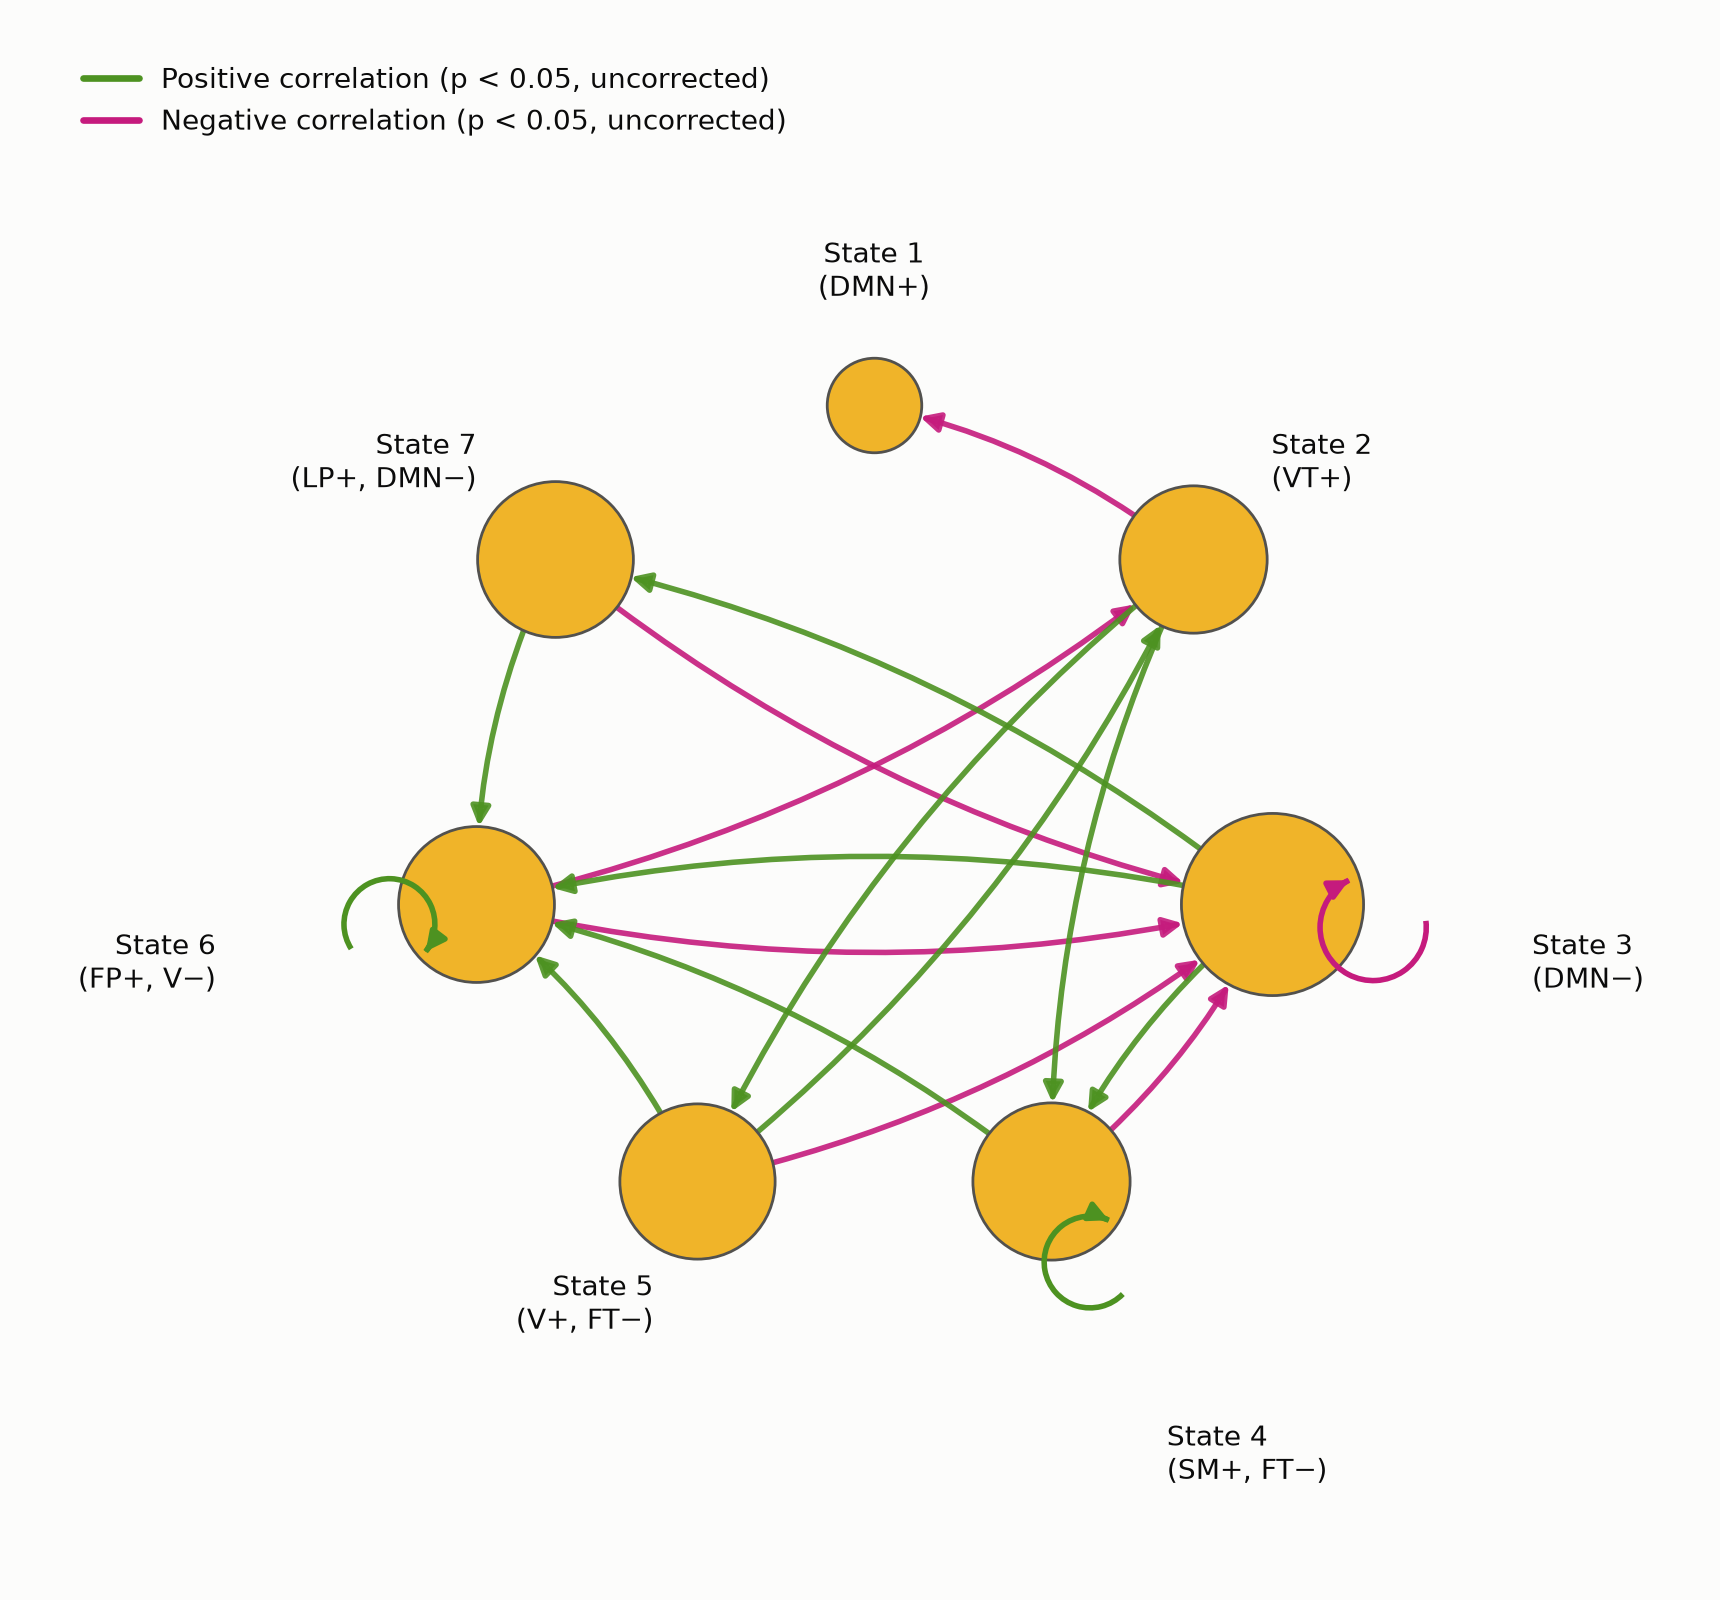
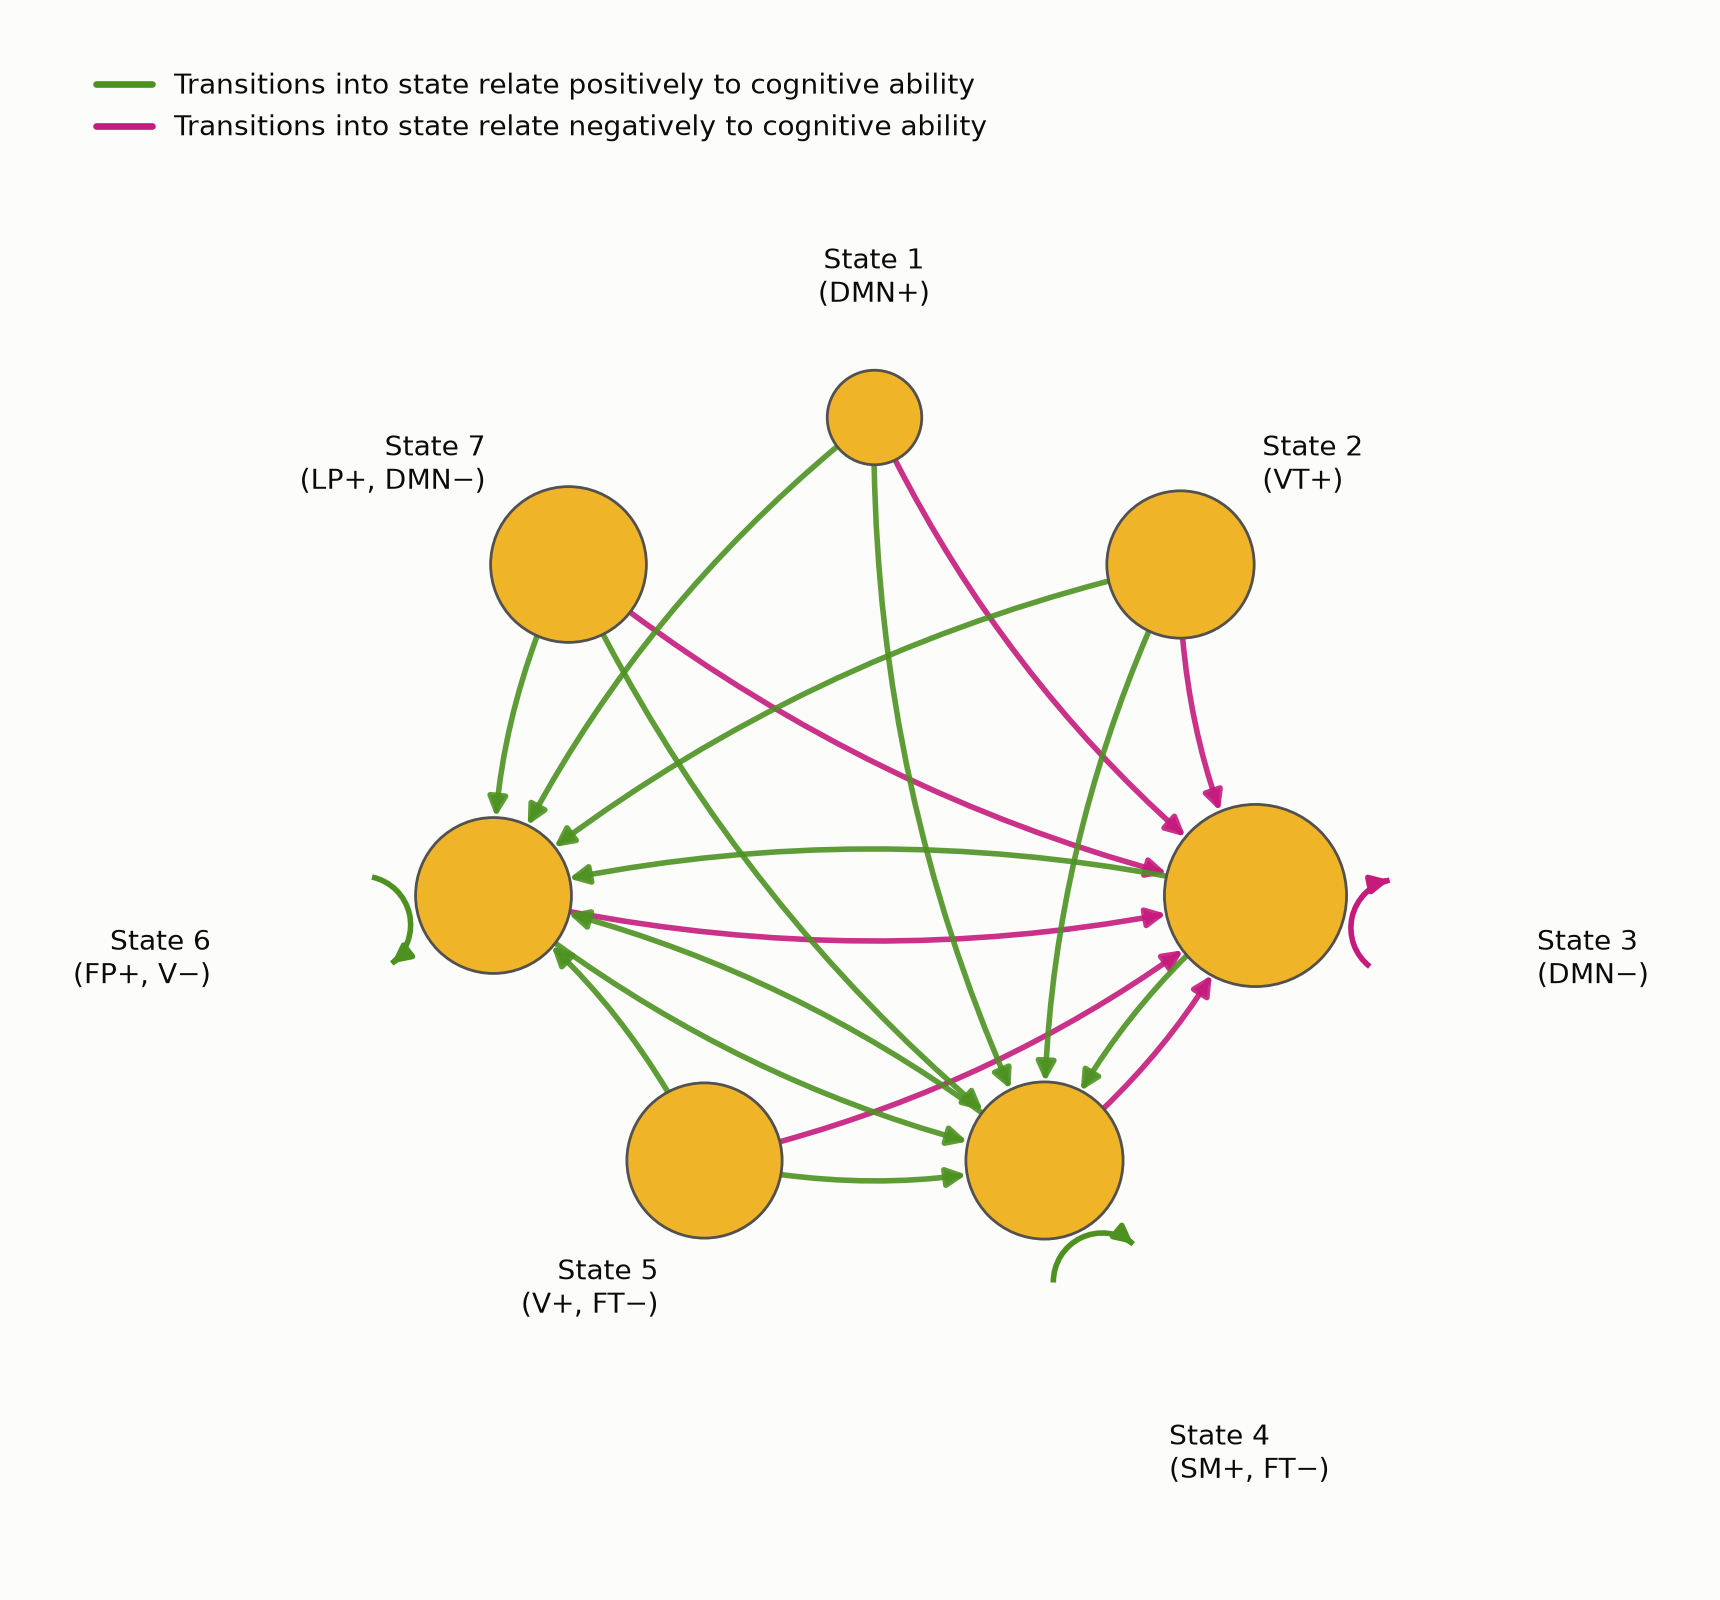
Restrict the transition digraph to edges that survive correction
No individual transition cell survives BH-FDR across the 49 (smallest
adjusted p = 0.063), so an edge-wise corrected figure would be blank - the
same conclusion the 2023 paper reached. Folding those 49 tests into the main
family is not an option either: it wipes out all 31 existing findings,
states 3, 4 and 6 included.

What does survive is the transitions-into-state test, which is itself an
edge-level claim about a whole column of the matrix. The digraph now draws
arrows converging on states 3, 4 and 6, coloured by the sign of that state's
corrected effect, with self-loops. The caption states that the arrows depict
one tested quantity per target state rather than seven separate tests.

Self-loop geometry moved to data units. Deriving it from the marker size in
points underestimated the node radius, because tight_layout resizes the axes
after the function returns, so the arcs were drawn across their own nodes.

diff --git a/analysis/viz/figures.py b/analysis/viz/figures.py
@@ -315,6 +315,7 @@ def significant_transition_network(
     node_sizes: dict[int, float],
     alpha: float = 0.05,
     state_labels: dict[int, str] | None = None,
+    legend_labels: tuple[str, str] | None = None,
     layout: str = "circular",
     seed: int = 7,
     ax=None,
@@ -376,39 +377,40 @@ def significant_transition_network(
             )
 
     # Self-loops need explicit geometry: an arrow from a point to itself has
-    # zero length and renders nothing. Each loop is an arc sitting just
-    # outside its node, on the far side from the centre so it never covers a
-    # label or another edge. Node radii are read back through the data
-    # transform so the loops stay attached at any figure size.
-    ax.set_xlim(-1.85, 1.85)
-    ax.set_ylim(-1.75, 1.75)
-    points_per_data_unit = abs(
-        ax.transData.transform((1.0, 0.0))[0] - ax.transData.transform((0.0, 0.0))[0]
-    )
+    # zero length and renders nothing.
+    #
+    # Their size is set in DATA units, not derived from the marker size in
+    # points. The points-per-data ratio is not knowable here - `tight_layout`
+    # resizes the axes after this function returns - so a radius computed from
+    # the transform comes out too small and the arc gets drawn across its own
+    # node. The layout is always a unit circle at a fixed aspect, so
+    # data-space constants are stable across figure sizes.
+    ax.set_xlim(-1.9, 1.9)
+    ax.set_ylim(-1.8, 1.8)
+    node_radius_data = {s: 0.155 + 0.105 * (node_sizes[s] / size_max) for s in states}
     for state, is_positive in self_loops:
         x, y = pos[state]
         dx, dy = np.cos(angles[state]), np.sin(angles[state])
-        node_radius = (np.sqrt(node_size[state] / np.pi)) / max(points_per_data_unit, 1e-9)
-        loop_radius = 0.95 * node_radius
-        centre = (x + (node_radius + loop_radius * 0.9) * dx,
-                  y + (node_radius + loop_radius * 0.9) * dy)
+        loop_radius = 0.125
+        centre = (x + (node_radius_data[state] + loop_radius * 0.95) * dx,
+                  y + (node_radius_data[state] + loop_radius * 0.95) * dy)
         base_angle = np.degrees(np.arctan2(dy, dx))
         colour = PIYG_POSITIVE if is_positive else PIYG_NEGATIVE
         # drawn above the nodes: a loop tucked behind its own node reads as a
         # stray stub rather than a self-transition
         ax.add_patch(mpl.patches.Arc(
             centre, 2 * loop_radius, 2 * loop_radius,
-            theta1=base_angle + 130, theta2=base_angle + 20,
+            theta1=base_angle + 115, theta2=base_angle - 115,
             lw=2.0, color=colour, zorder=4,
         ))
-        head_angle = np.radians(base_angle + 130)
+        head_angle = np.radians(base_angle + 115)
         tip = (centre[0] + loop_radius * np.cos(head_angle),
                centre[1] + loop_radius * np.sin(head_angle))
         tangent = head_angle - np.pi / 2
         ax.annotate(
             "", xy=tip,
-            xytext=(tip[0] - 0.02 * np.cos(tangent), tip[1] - 0.02 * np.sin(tangent)),
-            arrowprops=dict(arrowstyle="-|>", mutation_scale=14, lw=2.0, color=colour),
+            xytext=(tip[0] - 0.022 * np.cos(tangent), tip[1] - 0.022 * np.sin(tangent)),
+            arrowprops=dict(arrowstyle="-|>", mutation_scale=13, lw=2.0, color=colour),
             zorder=4,
         )
 
@@ -424,7 +426,7 @@ def significant_transition_network(
     for state in states:
         x, y = pos[state]
         dx, dy = np.cos(angles[state]), np.sin(angles[state])
-        offset = 96 if state in looped else 36
+        offset = 104 if state in looped else 38
         ax.annotate(
             labels[state], (x, y), xytext=(offset * dx, offset * dy), textcoords="offset points",
             ha="center" if abs(dx) < 0.4 else ("left" if dx > 0 else "right"),
@@ -432,12 +434,14 @@ def significant_transition_network(
             fontsize=10, color=TEXT_PRIMARY,
         )
 
+    positive_label, negative_label = legend_labels or (
+        f"Positive correlation (p < {alpha:g}, uncorrected)",
+        f"Negative correlation (p < {alpha:g}, uncorrected)",
+    )
     ax.legend(
         handles=[
-            mpl.lines.Line2D([], [], color=PIYG_POSITIVE, lw=2.4,
-                             label=f"Positive correlation (p < {alpha:g}, uncorrected)"),
-            mpl.lines.Line2D([], [], color=PIYG_NEGATIVE, lw=2.4,
-                             label=f"Negative correlation (p < {alpha:g}, uncorrected)"),
+            mpl.lines.Line2D([], [], color=PIYG_POSITIVE, lw=2.4, label=positive_label),
+            mpl.lines.Line2D([], [], color=PIYG_NEGATIVE, lw=2.4, label=negative_label),
         ],
         loc="upper left", bbox_to_anchor=(-0.04, 1.04), frameon=False, fontsize=10,
     )

diff --git a/analysis/make_figures.py b/analysis/make_figures.py
@@ -201,12 +201,30 @@ def figures_transition_cognition(subject_level, merged, transitions, output_dir:
     fig.savefig(heatmap_path, dpi=200)
     plt.close(fig)
 
-    # Original-style digraph: yellow nodes, one flat magenta/green arrow per
-    # transition significant at uncorrected p < 0.05, self-loops included.
-    # Descriptive - the legend states the threshold and that it is uncorrected.
+    # Original-style digraph restricted to what survives correction.
+    #
+    # No individual transition cell survives BH-FDR across the 49 (smallest
+    # adjusted p = 0.063), so an edge-wise corrected figure would be blank.
+    # What does survive is the transitions-INTO-state test: states 3, 4 and 6
+    # (p_adj = 0.041 each). Those are edge-level claims about a whole column
+    # of the matrix, so they are drawn as every arrow converging on those
+    # states, coloured by the sign of that state's effect. The arrows depict
+    # one tested quantity per target state, not seven separate tests - the
+    # caption must say so.
+    converging_r = np.zeros_like(cellwise)
+    converging_p = np.ones_like(pvalues)
+    for state in SIGNIFICANT_TRANSITION_STATES:
+        converging_r[:, state - 1] = node_values[state]
+        converging_p[:, state - 1] = 0.0
+
     fig, ax = plt.subplots(figsize=(8.6, 8.0))
-    significant_transition_network(cellwise, pvalues, node_sizes, alpha=0.05,
-                                   state_labels=STATE_LABELS, ax=ax)
+    significant_transition_network(
+        converging_r, converging_p, node_sizes, alpha=0.05,
+        state_labels=STATE_LABELS,
+        legend_labels=("Transitions into state relate positively to cognitive ability",
+                       "Transitions into state relate negatively to cognitive ability"),
+        ax=ax,
+    )
     fig.tight_layout()
     significant_path = output_dir / "transitions_significant_digraph.png"
     fig.savefig(significant_path, dpi=200)

diff --git a/analysis/make_tracker_pdf.py b/analysis/make_tracker_pdf.py
@@ -47,11 +47,14 @@ FIGURE_CAPTIONS = {
         "occupancy) while states 4, 6 and 7 are positive."
     ),
     "transitions_significant_digraph.png": (
-        "State transition digraph in the style of the original manuscript figure. One arrow per "
-        "transition whose correlation with cognitive ability reaches p < 0.05 UNCORRECTED "
-        "(18 of 49), green positive and magenta negative, including self-transitions for states "
-        "3, 4 and 6. Descriptive: these cell-wise tests are not corrected for multiplicity, and "
-        "the confirmatory analysis is over transitions into each state, not individual cells."
+        "State transition digraph in the style of the original manuscript figure, restricted to "
+        "what survives correction. NO individual transition cell survives BH-FDR across the 49 "
+        "(smallest adjusted p = 0.063), so an edge-wise corrected figure would be empty. What "
+        "does survive is the transitions-INTO-state test: states 3, 4 and 6 (p_adj = 0.041 "
+        "each). Arrows therefore converge on those three states, green where transitions into "
+        "the state relate positively to cognitive ability and magenta where negatively, with "
+        "self-transitions included. The arrows depict ONE tested quantity per target state - the "
+        "total probability of entering it - not seven separate tests per state."
     ),
     "transitions_into_state_network.png": (
         "Transitions into each state against cognitive ability. Node colour is the correlation "
